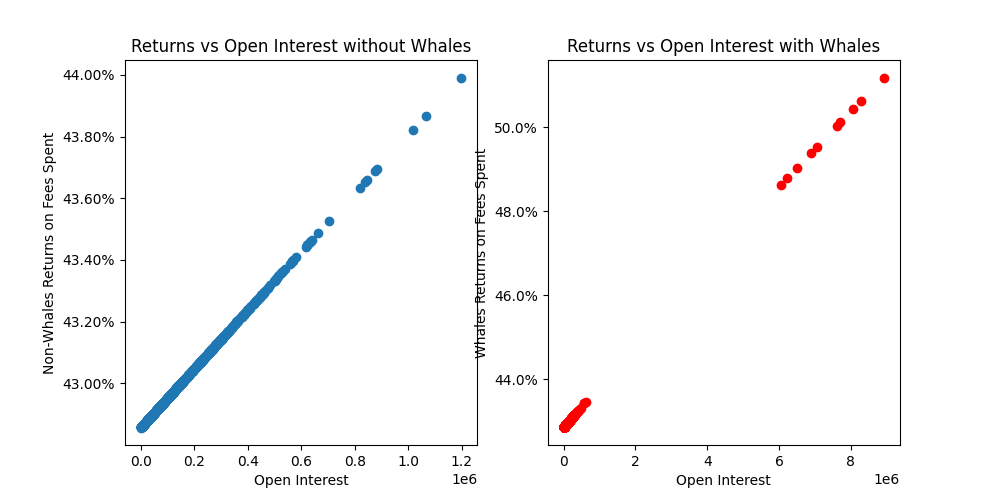
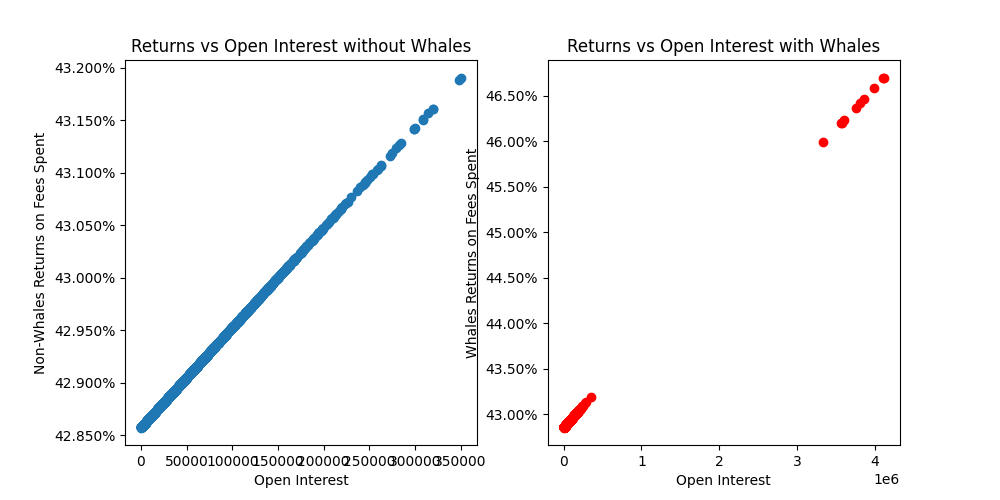
make numbers more realistic

diff --git a/trading_mechanisms/analysis.py b/trading_mechanisms/analysis.py
@@ -118,8 +118,10 @@ def plot5(R, p, alpha, open_interest):
     
     _, profit_fast = setup(R, p, analysis=True)
 
+    n = 3_000
+
     # Without whales
-    d_mkt, f_mkt = find_equilibrium(open_interest, n=1000, R=R, p=p, alpha=alpha)
+    d_mkt, f_mkt = find_equilibrium(open_interest, n=n, R=R, p=p, alpha=alpha)
     mkt_score = cur_mkt_score(d_mkt, f_mkt)
     T_mkt = mkt_score - f_mkt**0.7 * d_mkt**0.3
     profits = profit_fast(f_mkt, d_mkt, T_mkt) * 100
@@ -133,7 +135,7 @@ def plot5(R, p, alpha, open_interest):
 
     # With whales
     d_mkt, f_mkt = find_equilibrium(open_interest, \
-        n=1000, R=R, p=p, alpha=alpha, num_whales=10, whale_alpha=100)
+        n=n, R=R, p=p, alpha=alpha, num_whales=10, whale_alpha=100)
     mkt_score = cur_mkt_score(d_mkt, f_mkt)
     T_mkt = mkt_score - f_mkt**0.7 * d_mkt**0.3
     profits = profit_fast(f_mkt, d_mkt, T_mkt) * 100
@@ -242,9 +244,9 @@ def main():
     This creates all the tables and plot for our analysis.
     """
     R = 3_835_616
-    p = 10
+    p = 5.5
     alpha = 0.01
-    open_interest = 150_000_000
+    open_interest = 1_500_000_000
 
     # (1) Individual profit curve with black dot on maximum
     print("Generating plot 1... ")
